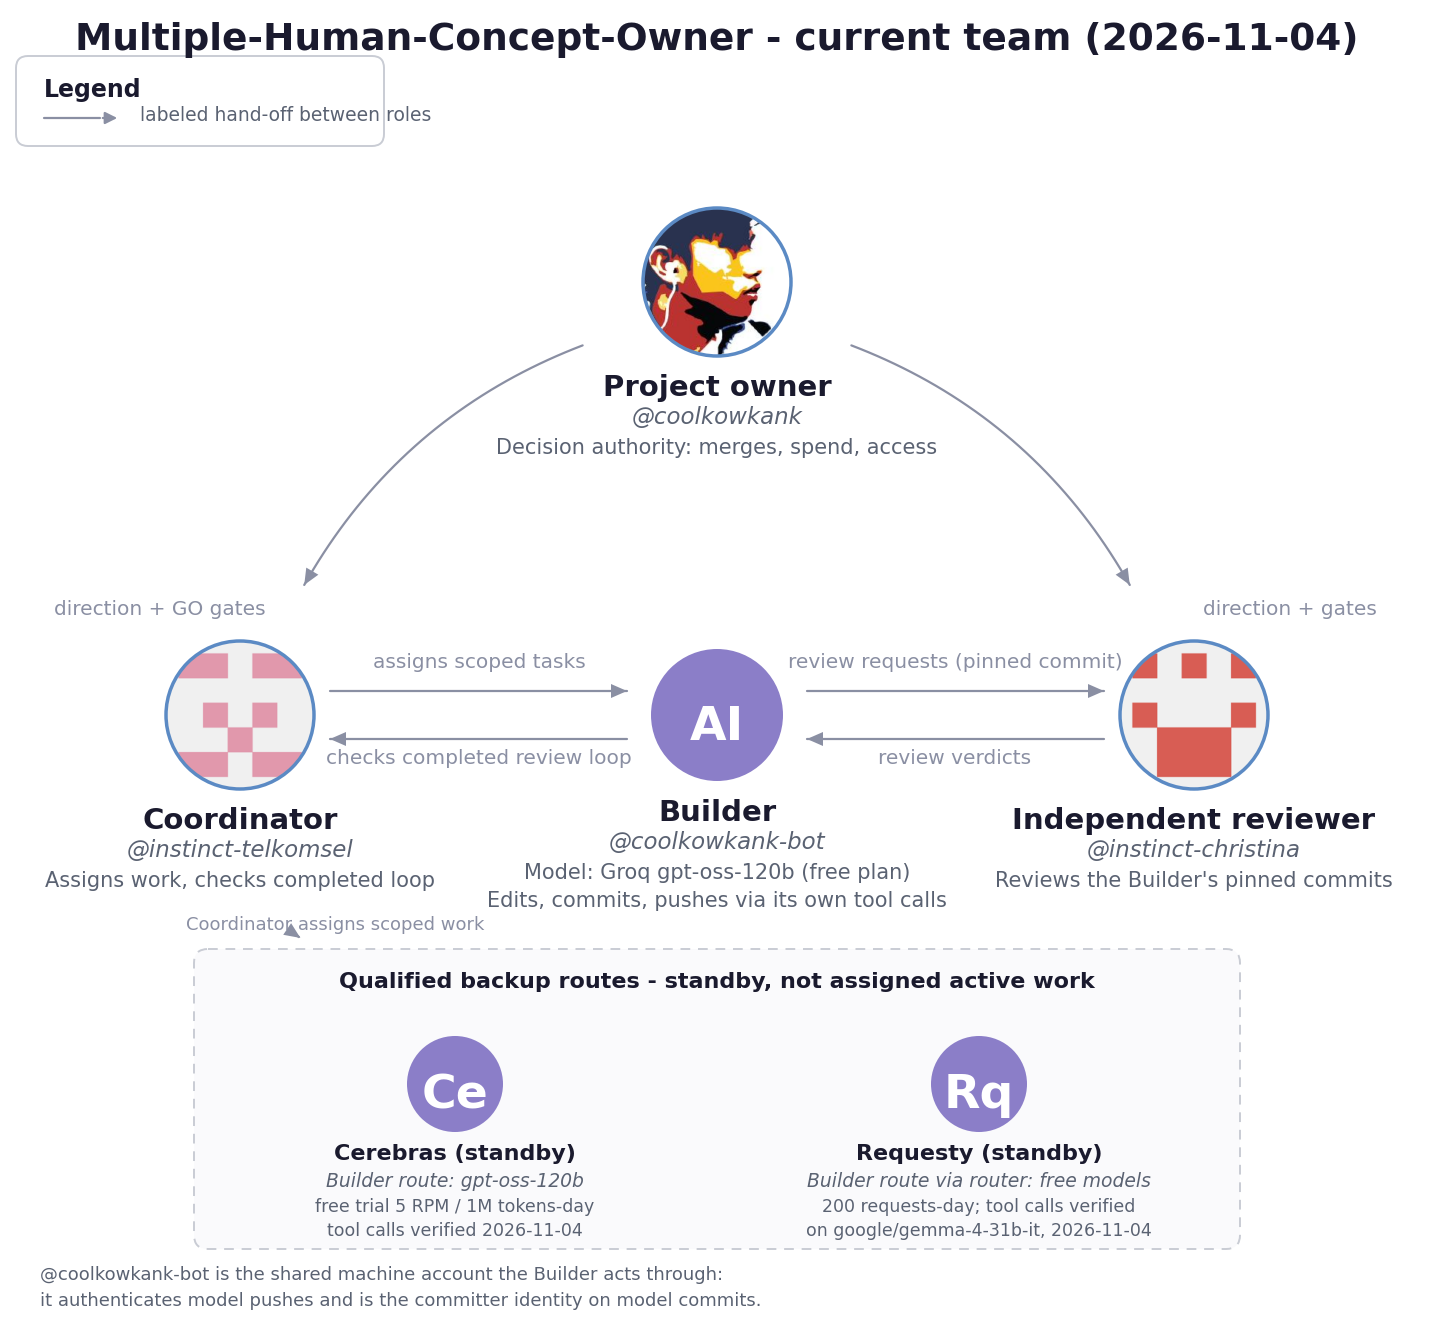
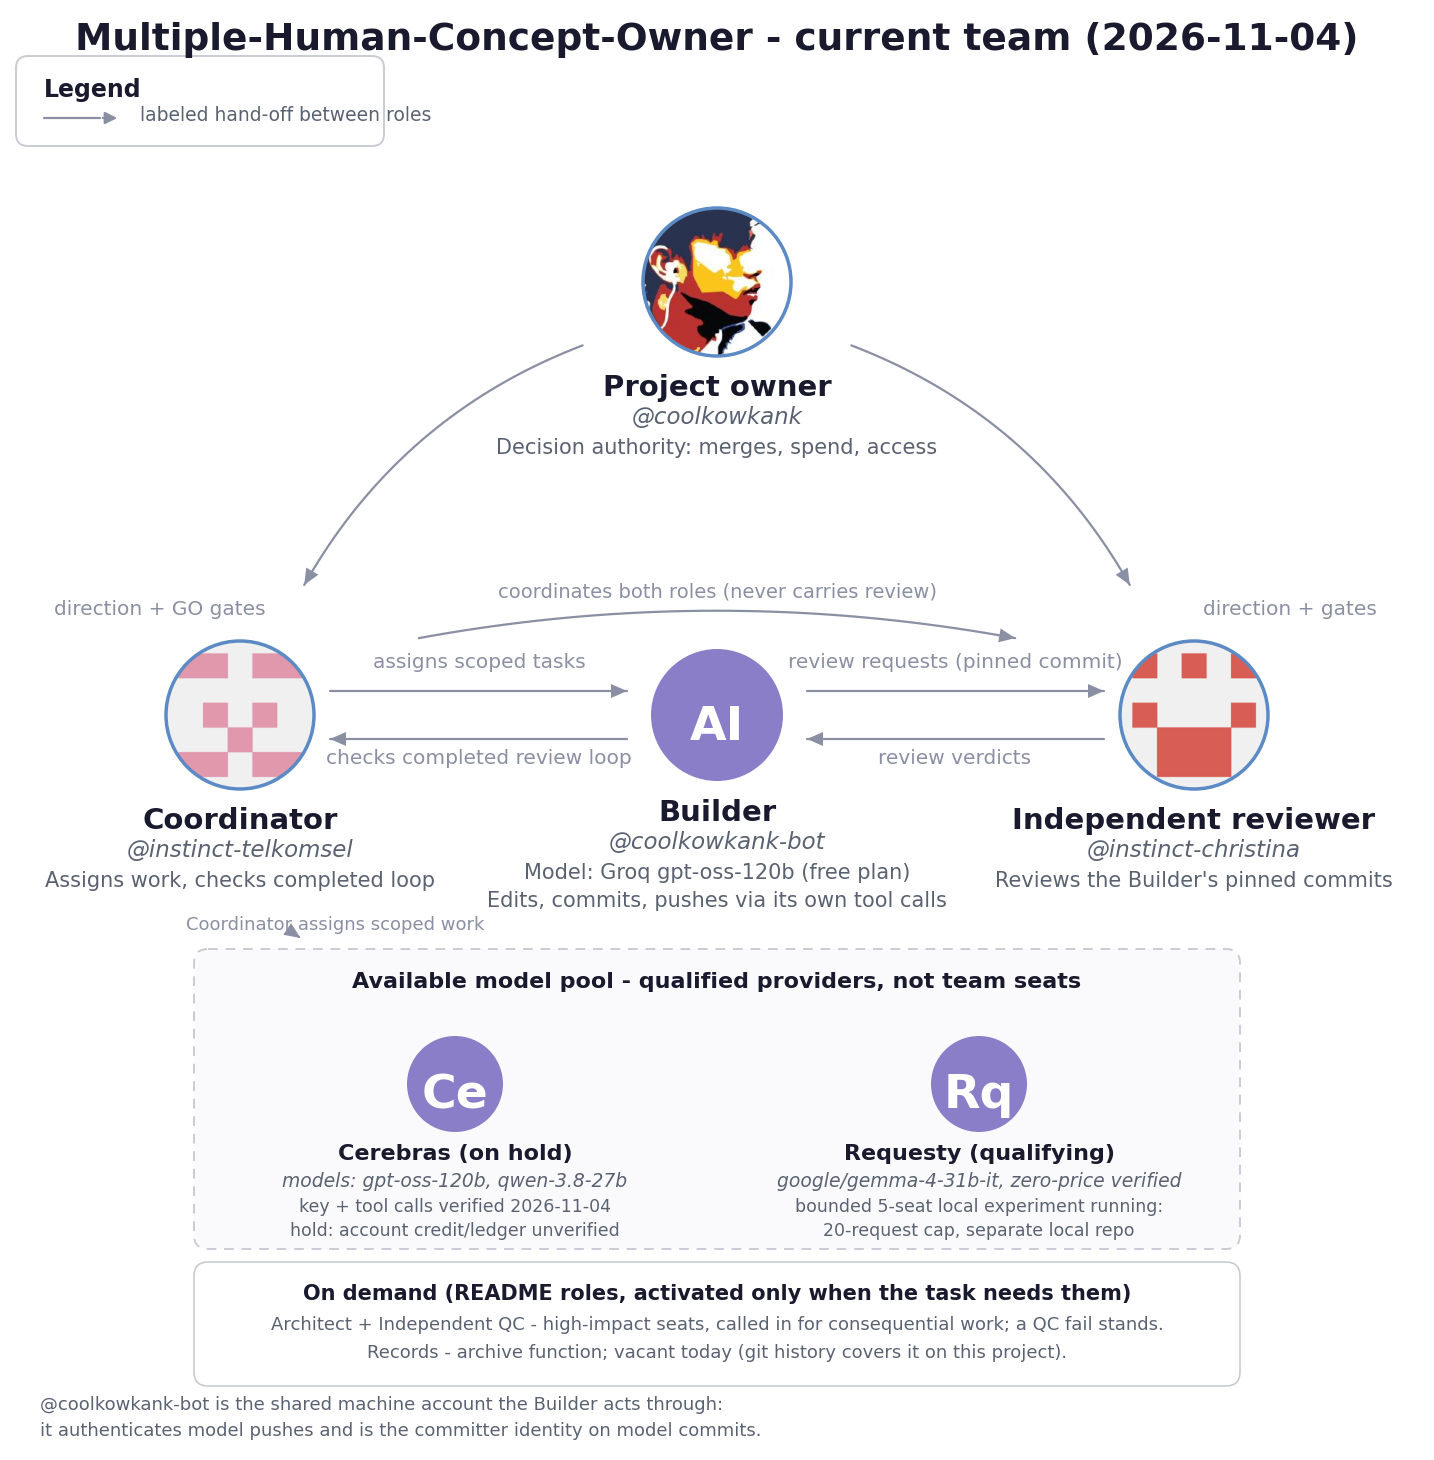
operator: team chart per README framework - model pool, on-demand roles, coordinator link
Providers are an available model pool, not seats: Cerebras (on hold -
credit/ledger unverified) and Requesty (zero-price verified, bounded local
experiment running) state grounded facts only. README roles without an active
occupant (Architect, Independent QC, Records) appear as a small on-demand
note, not empty seats. The Coordinator manages both delivery roles: a
shallow coordination arc to the reviewer, explicitly never carrying review;
the Builder <-> reviewer loop is unchanged. Style rules updated.

TURN: coordinator

diff --git a/diagrams/team-roster.py b/diagrams/team-roster.py
@@ -33,7 +33,7 @@ def avatar(login):
     im.putalpha(mask)
     return np.asarray(im)
 
-W, H = 1434, 1330
+W, H = 1434, 1460
 fig = plt.figure(figsize=(W/100, H/100), dpi=100)
 ax = fig.add_axes([0, 0, 1, 1]); ax.set_xlim(0, W); ax.set_ylim(H, 0); ax.axis("off")
 ax.add_patch(plt.Rectangle((0, 0), W, H, color="white"))
@@ -134,34 +134,49 @@ arrow((COR[0], BLD[1]-24), (BLD[0], BLD[1]-24), shrink=90)
 text(479, BLD[1]-62, "assigns scoped tasks", 14.5, ARROW)
 arrow((BLD[0], BLD[1]+24), (COR[0], BLD[1]+24), shrink=90)
 text(479, BLD[1]+34, "checks completed review loop", 14.5, ARROW)
+# Coordinator manages BOTH delivery roles: a high coordination arc to the
+# reviewer (assignment/coordination only - review requests and verdicts never
+# pass through the Coordinator; the review loop below stays Builder <-> reviewer)
+arrow((COR[0]+120, 650), (REV[0]-120, 650), rad=-0.11, shrink=60)
+text(717, 583, "coordinates both roles (never carries review)", 14, ARROW)
 # Review loop is directly between Builder and the independent reviewer
 arrow((BLD[0], BLD[1]-24), (REV[0], BLD[1]-24), shrink=90)
 text(955, BLD[1]-62, "review requests (pinned commit)", 14.5, ARROW)
 arrow((REV[0], BLD[1]+24), (BLD[0], BLD[1]+24), shrink=90)
 text(955, BLD[1]+34, "review verdicts", 14.5, ARROW)
 
-# Standby band: provider routes QUALIFIED (key + free tool-calling probe, 2026-11-04)
-# but not yet assigned active work. Dashed connectors = standby, never an active seat.
+# Available model pool: QUALIFIED providers (keys + probes verified 2026-11-04).
+# Providers are NOT team seats or roles - a model from this pool can be assigned
+# to a seat by the Coordinator within verified budgets and existing authority.
 band = FancyBboxPatch((200, 955), 1034, 288, boxstyle="round,pad=6,rounding_size=14",
                       fc="#fafafc", ec="#c9ccd4", lw=1.4, ls=(0, (5, 4)))
 ax.add_patch(band)
-text(717, 972, "Qualified backup routes - standby, not assigned active work", 16, INK, "bold")
+text(717, 972, "Available model pool - qualified providers, not team seats", 16, INK, "bold")
 CER, RQY = (455, 1084, 48), (979, 1084, 48)
 node(*CER, icon="Ce")
 node(*RQY, icon="Rq")
-text(CER[0], CER[1]+CER[2]+12, "Cerebras (standby)", 16, INK, "bold")
-text(CER[0], CER[1]+CER[2]+40, "Builder route: gpt-oss-120b", 13.5, GRAY, style="italic")
-text(CER[0], CER[1]+CER[2]+66, "free trial 5 RPM / 1M tokens-day", 12.5)
-text(CER[0], CER[1]+CER[2]+90, "tool calls verified 2026-11-04", 12.5)
-text(RQY[0], RQY[1]+RQY[2]+12, "Requesty (standby)", 16, INK, "bold")
-text(RQY[0], RQY[1]+RQY[2]+40, "Builder route via router: free models", 13.5, GRAY, style="italic")
-text(RQY[0], RQY[1]+RQY[2]+66, "200 requests-day; tool calls verified", 12.5)
-text(RQY[0], RQY[1]+RQY[2]+90, "on google/gemma-4-31b-it, 2026-11-04", 12.5)
-# one dashed standby link to the band: the Coordinator manages every delivery
-# seat, active or standby, and activates standby routes by assigning scoped
-# work within verified free budgets - no separate owner gate per routine task
+text(CER[0], CER[1]+CER[2]+12, "Cerebras (on hold)", 16, INK, "bold")
+text(CER[0], CER[1]+CER[2]+40, "models: gpt-oss-120b, qwen-3.8-27b", 13.5, GRAY, style="italic")
+text(CER[0], CER[1]+CER[2]+66, "key + tool calls verified 2026-11-04", 12.5)
+text(CER[0], CER[1]+CER[2]+90, "hold: account credit/ledger unverified", 12.5)
+text(RQY[0], RQY[1]+RQY[2]+12, "Requesty (qualifying)", 16, INK, "bold")
+text(RQY[0], RQY[1]+RQY[2]+40, "google/gemma-4-31b-it, zero-price verified", 13.5, GRAY, style="italic")
+text(RQY[0], RQY[1]+RQY[2]+66, "bounded 5-seat local experiment running:", 12.5)
+text(RQY[0], RQY[1]+RQY[2]+90, "20-request cap, separate local repo", 12.5)
+# one dashed link to the pool: the Coordinator manages every delivery seat and
+# activates a pool model for a seat by assigning scoped work within verified
+# free budgets - no separate owner gate per routine task
 arrow((COR[0]+20, 905), (335, 958), rad=0.08, style=(0, (5, 4)), shrink=40)
 text(186, 916, "Coordinator assigns scoped work", 13, ARROW, ha="left")
+
+# On-demand README roles: activated per task, not standing seats (no active
+# occupant today - stated, not drawn as seats)
+od = FancyBboxPatch((200, 1268), 1034, 112, boxstyle="round,pad=6,rounding_size=14",
+                    fc="white", ec="#c9ccd4", lw=1.2)
+ax.add_patch(od)
+text(717, 1284, "On demand (README roles, activated only when the task needs them)", 15, INK, "bold")
+text(717, 1316, "Architect + Independent QC - high-impact seats, called in for consequential work; a QC fail stands.", 13, GRAY)
+text(717, 1344, "Records - archive function; vacant today (git history covers it on this project).", 13, GRAY)
 
 # Footer: shared machine account is infrastructure, not a team member
 text(40, H-64, "@coolkowkank-bot is the shared machine account the Builder acts through:", 13, GRAY, ha="left")

diff --git a/diagrams/CHART-STYLE.md b/diagrams/CHART-STYLE.md
@@ -33,7 +33,10 @@ a separate artifact with its own style.
   Builder in the middle, so each hand-off is a short straight arrow pair that never crosses
   a label.
 - Content rules: current occupants only - no unused seats, no adapter details, no
-  historical contributors.
+  historical contributors. README roles with no active occupant are NOT drawn as seats;
+  a small "On demand" note states they exist and are activated per task (owner steer
+  2026-11-04, Slack 1793790584.019179 + 1793790702.379659: README framework with
+  task-scaled activation, no empty-seat clutter).
 - Link rule (owner decision 2026-11-04, Slack 1793788269.210599): the review/verdict loop
   is directly between the Builder (@coolkowkank-bot) and the independent reviewer
   (@instinct-christina): review requests go Builder -> reviewer, verdicts go reviewer ->
@@ -41,17 +44,24 @@ a separate artifact with its own style.
   tasks to the Builder and checks the completed review loop. Never draw review arrows
   to or from the Coordinator, and never read independent review as a subordinate
   reporting line.
+- Coordination link (owner steer 2026-11-04, Slack 1793790702.379659): the Coordinator
+  manages BOTH delivery roles, so one shallow arc runs from the Coordinator side to the
+  reviewer above the Builder, labeled "coordinates both roles (never carries review)".
+  It is a coordination link, never a review arrow; the review loop stays untouched.
 - Arrow check: after rendering, read each arrowhead on the actual image and confirm it
   matches its label.
-- Standby routes (owner request 2026-11-04, Slack 1793788648.701489): qualified but
-  inactive provider routes sit in a separate dashed "Qualified backup routes" band below
-  the team row - never as active seats. Each standby node states only verified facts
-  (model or route, free-tier limit, what was probe-verified, and the date) plus the word
-  "standby". One dashed connector from the Coordinator to the band, labeled "Coordinator
-  assigns scoped work": the Coordinator activates a standby route by assigning
-  scoped work within verified free budgets and existing task authority - there
-  is no separate owner approval gate per routine task. Never mark a standby
-  route active until real assigned execution has run.
+- Available model pool (owner request 2026-11-04, Slack 1793788648.701489; refined
+  1793790702.379659): qualified but inactive PROVIDERS sit in a separate dashed
+  "Available model pool" band below the team row - never as active seats, and never
+  labeled as a role ("Builder route" is wrong: providers are model sources, roles are
+  seats). Each pool node states only verified facts (models, what was probe-verified,
+  the date, and its current grounded status - e.g. zero-price verified / on hold with
+  the reason) plus its assignment state. One dashed connector from the Coordinator to
+  the band, labeled "Coordinator assigns scoped work": the Coordinator activates a pool
+  model for a seat by assigning scoped work within verified free budgets and existing
+  task authority - there is no separate owner approval gate per routine task. Never
+  mark a pool model active until real assigned execution has run, and never infer seat
+  suitability (e.g. Architect/QC) from provider or price labels alone.
 
 ## Update rules
 
